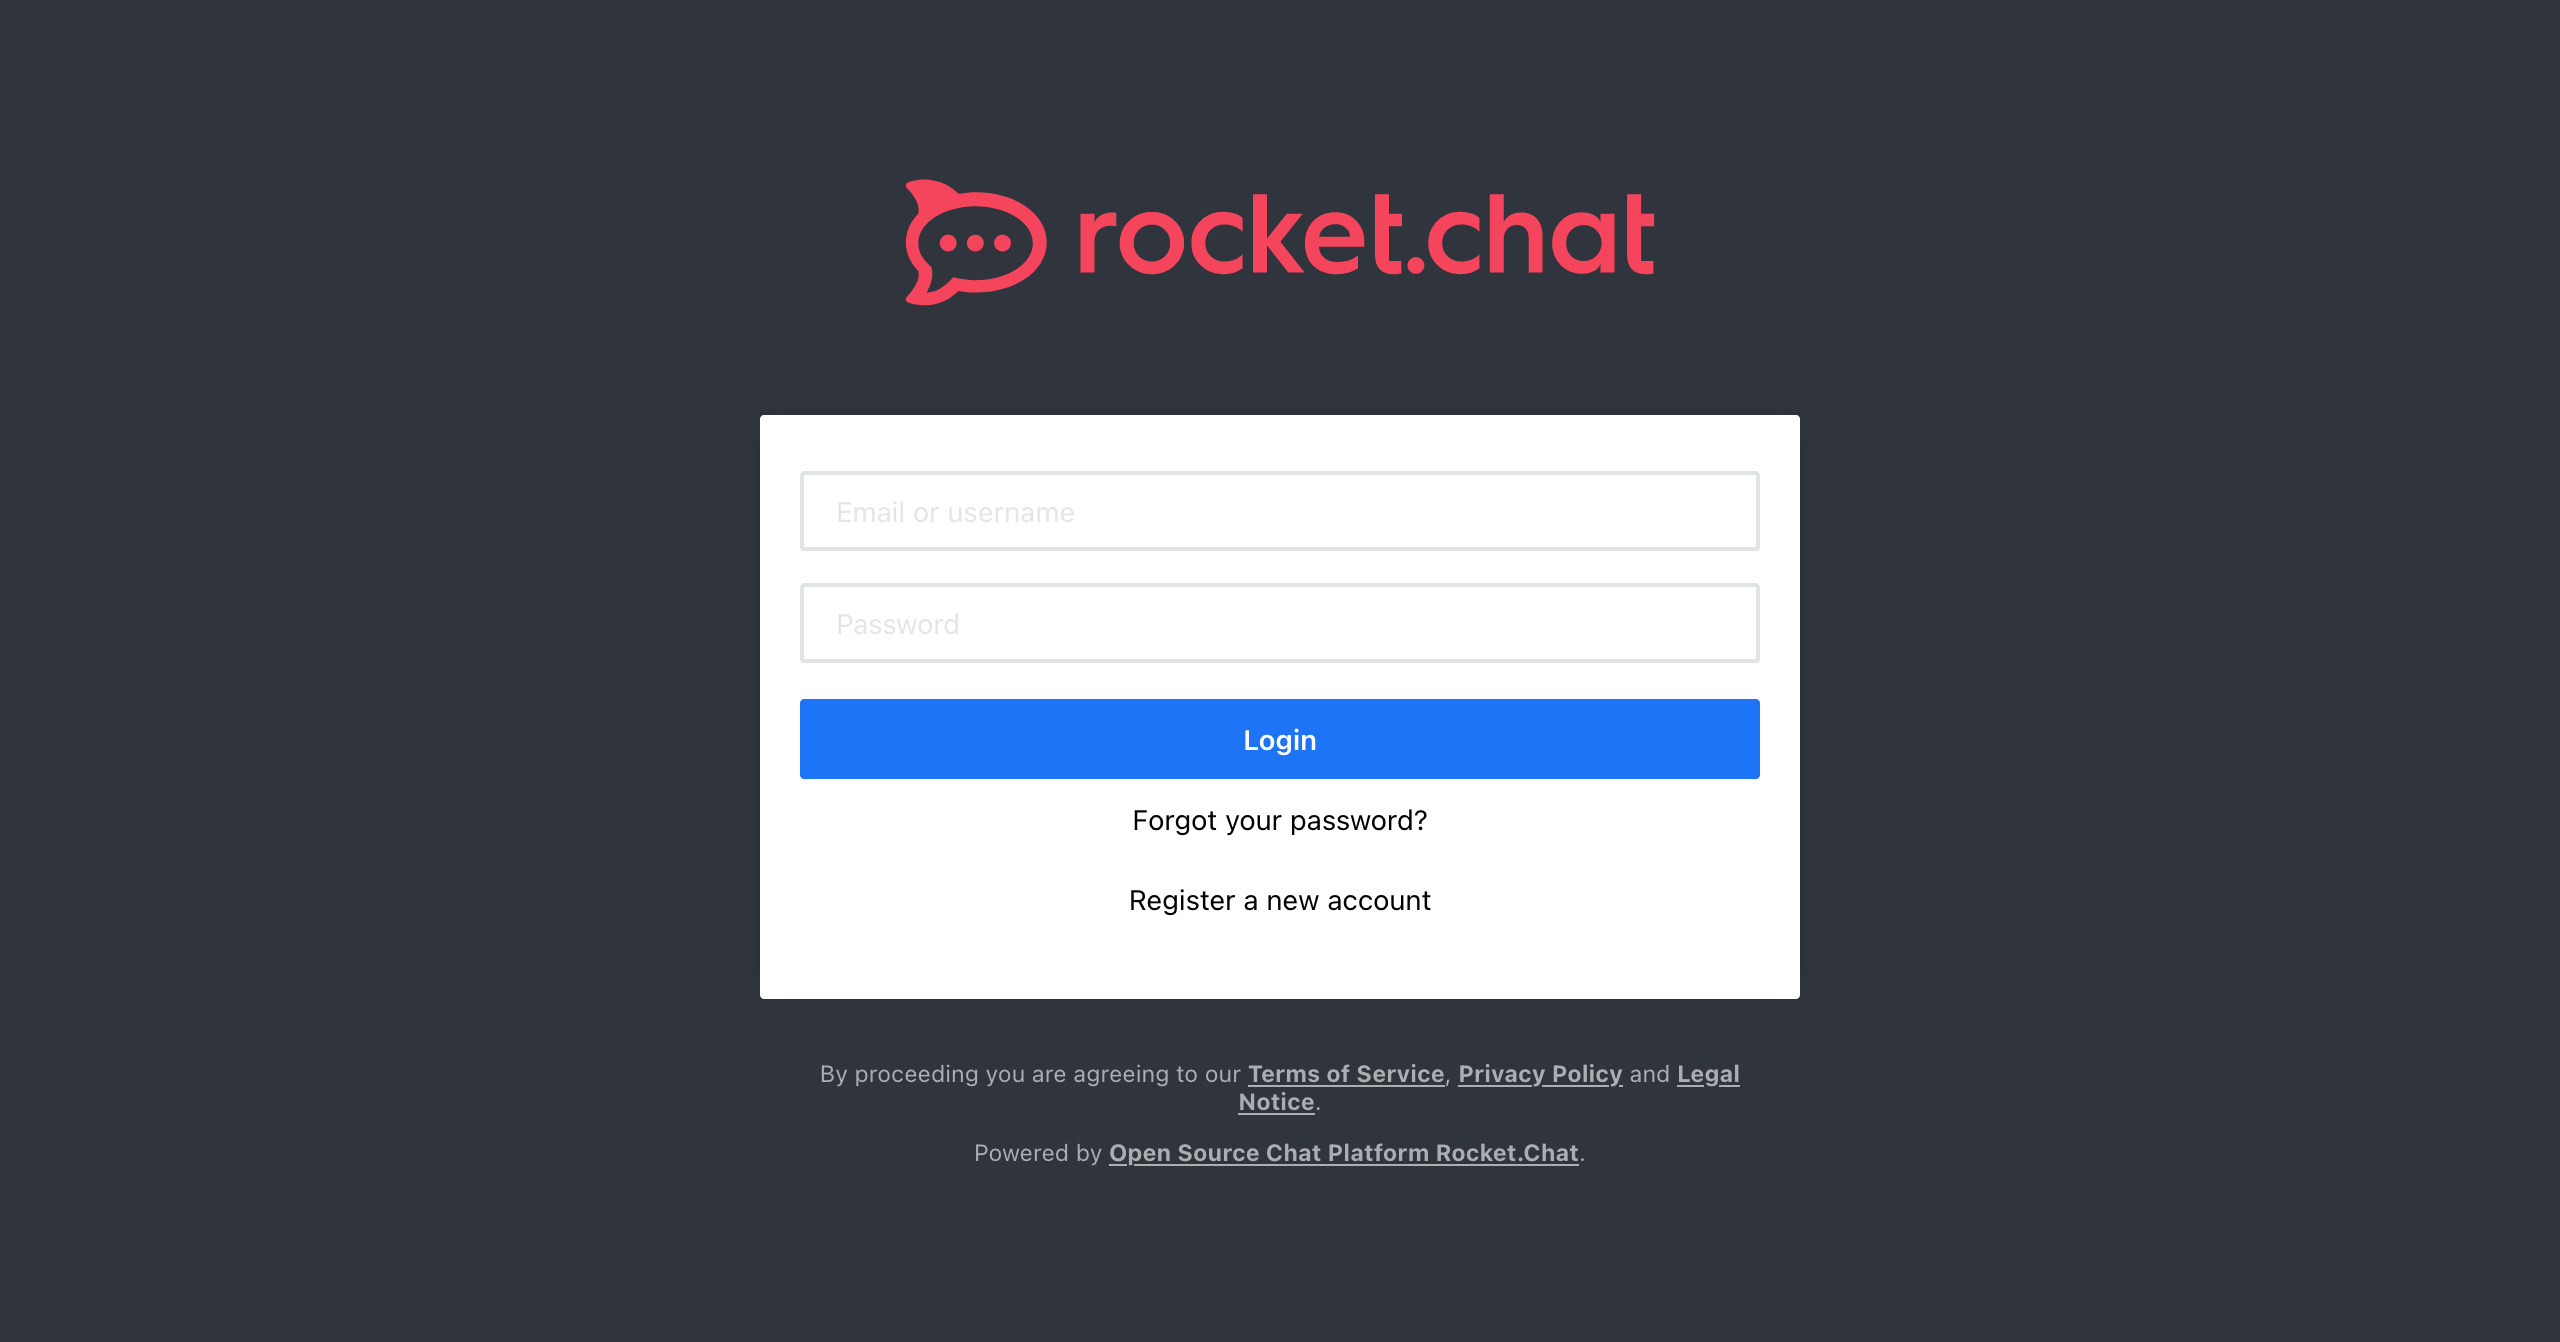
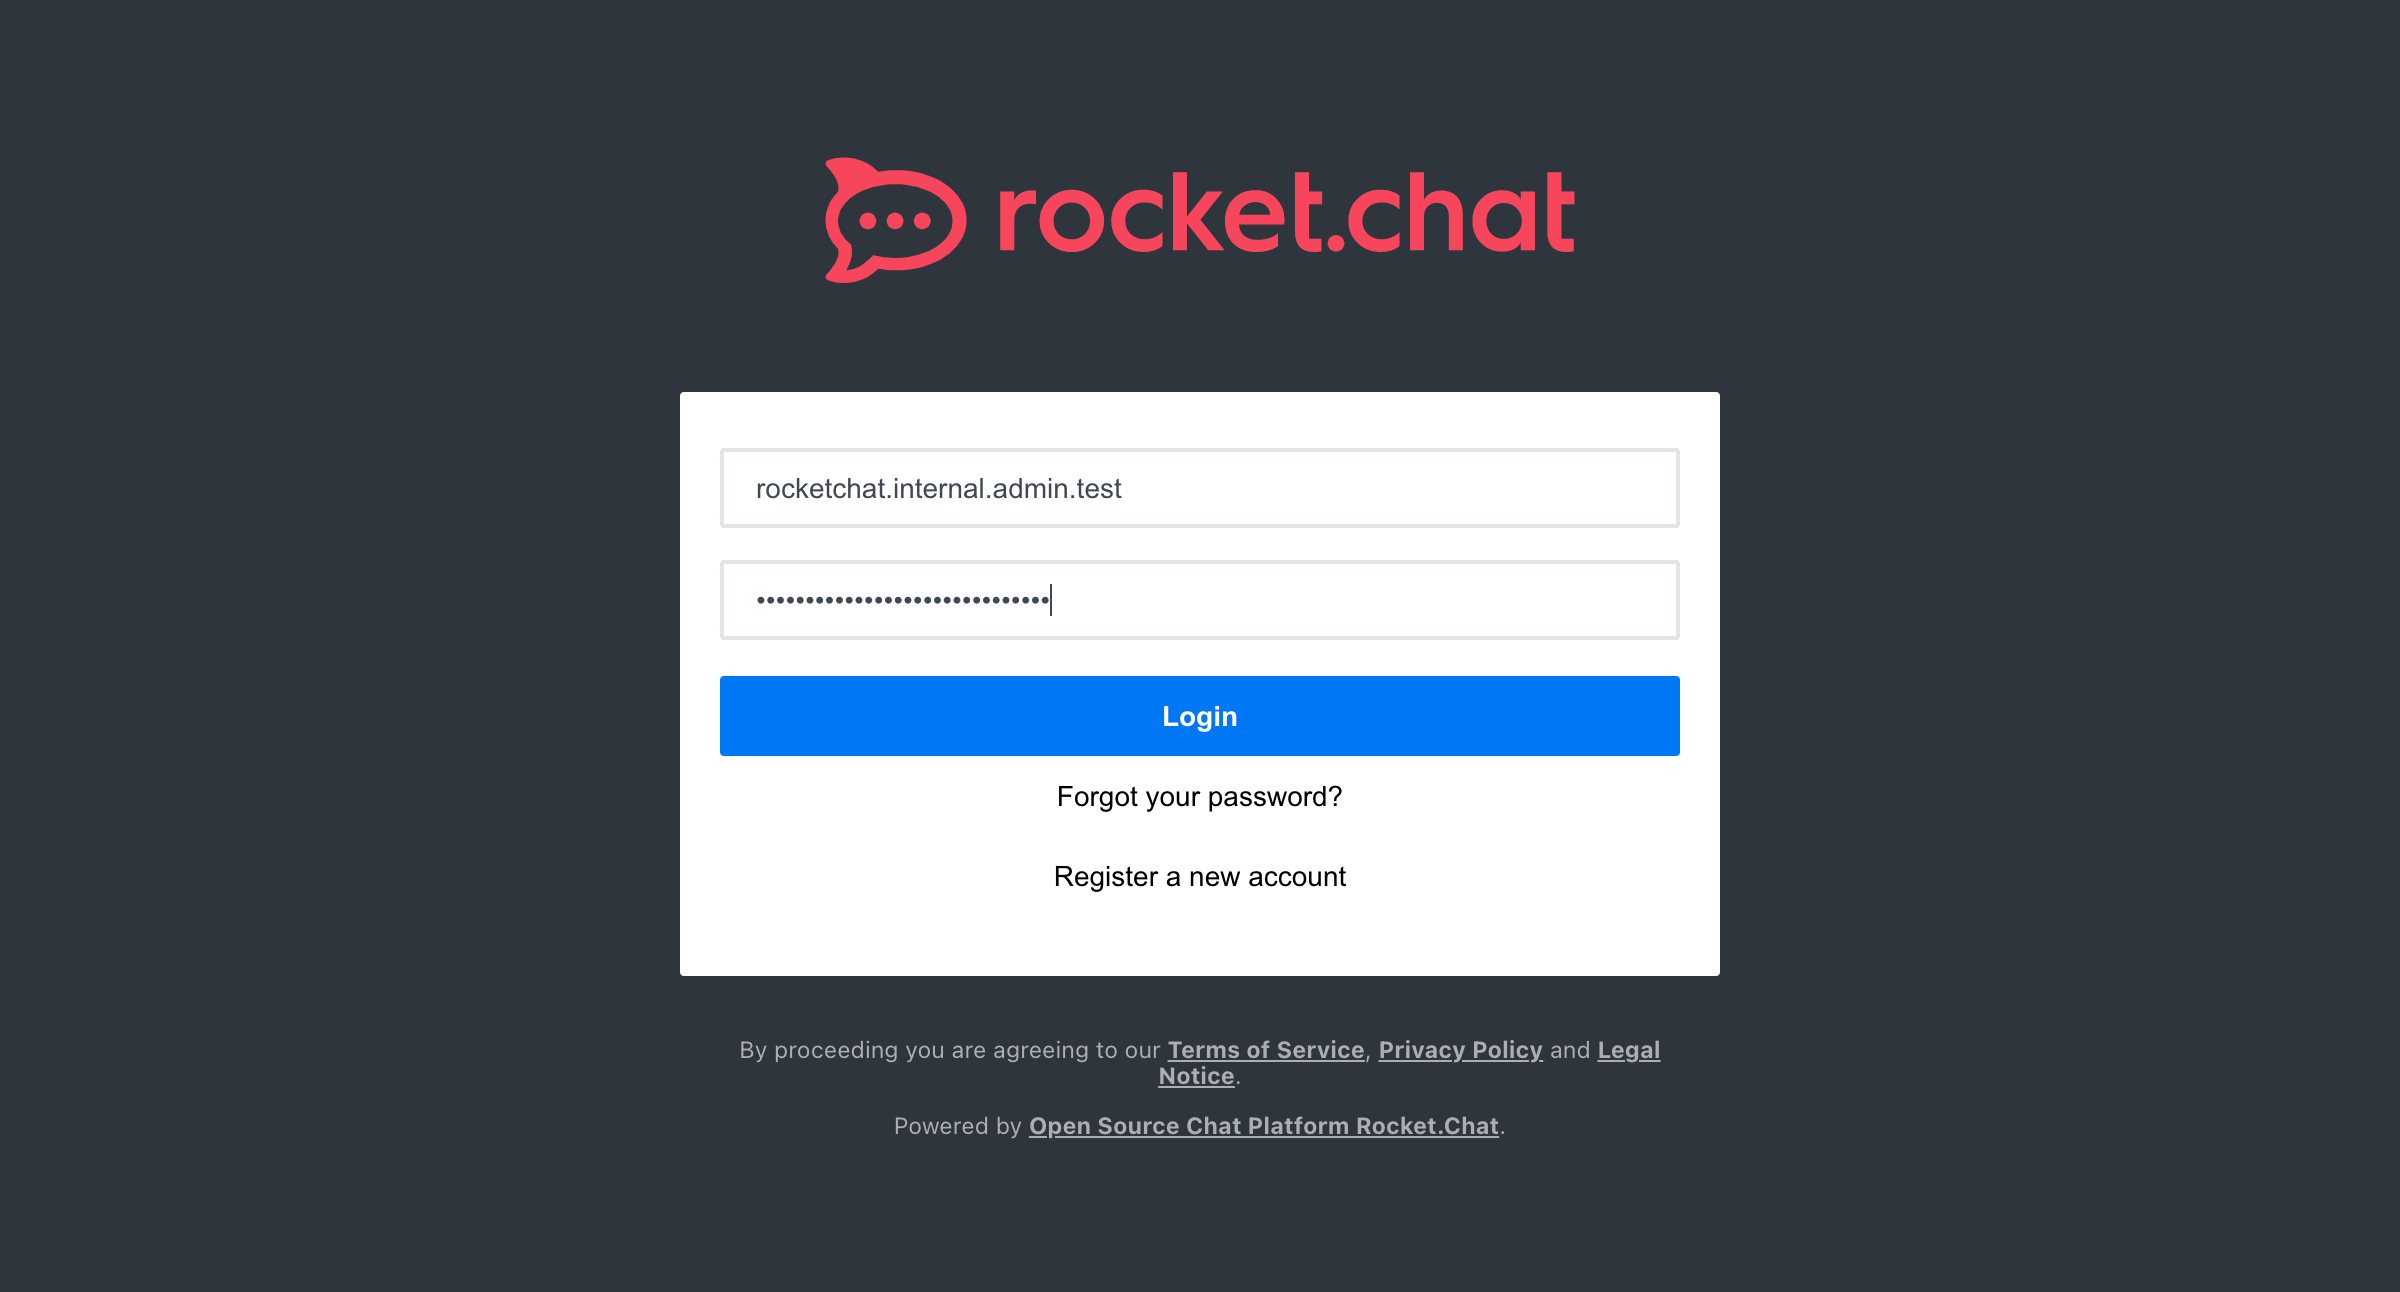
MoveToTeam

Changed region(s): [[0.2812, 0.2786, 0.7188, 0.8978], [0.3438, 0.1238, 0.6562, 0.2477], [0.4375, 0.6502, 0.5625, 0.6811]]

diff --git a/Pages/TeamsPage.py b/Pages/TeamsPage.py
@@ -57,6 +57,14 @@ class TeamsPage(BasePage):
     SAVE_BUTTON = (By.XPATH, '//*[@id="rocket-chat"]/div[2]/div/main/div/aside/div/div/div[1]/form/div[10]/span/div/div/button[2]')
     TEAM_EDIT = (By.XPATH, "//*[contains(text(),'" + data.new_name + "')]")
 
+    """Move to Team"""
+    CHANNEL_CREATED2 = (By.XPATH, "//*[contains(text(),'" + data.channel + "')]")
+    MOVE_TO_TEAM = (By.XPATH, '//li[@class="rcx-option"][@value="move"]')
+    CONTINUE_BUTTON = (By.XPATH, "//button[contains(text(), 'Continue')]")
+    YES_BUTTON = (By.XPATH, "//button[contains(text(), 'Yes')]")
+    SEARCH_CHANNEL = (By.XPATH, '//*[@id="modal-root"]/div/dialog/div/div[1]/div/div[5]/div/div[1]/input')
+    MOVED_CHANNEL = (By.XPATH, '//li[@class="rcx-option"]//div[contains(text(),"' + data.channel + '")]')
+
     def __init__(self, driver):
         super().__init__(driver)
 
@@ -162,6 +170,41 @@ class TeamsPage(BasePage):
 
     def is_change_visible(self):
         return self.is_visible(self.TEAM_EDIT)
+
+    def move_channel_to_team(self, channel, team_name):
+        self.do_click(self.ADD_BUTTON)
+        time.sleep(5)
+        self.do_click(self.CHANNEL_BUTTON)
+        self.do_click(self.CHANNEL_NAME_INPUT)
+        self.do_send_keys(self.CHANNEL_NAME_INPUT, channel)
+        time.sleep(3)
+        self.do_click(self.CREATE_BUTTON)
+        time.sleep(2)
+        self.do_click(self.CHANNEL_CREATED2)
+        time.sleep(5)
+        self.do_click(self.INFO_BUTTON)
+        self.do_click(self.MORE_BUTTON)
+        time.sleep(10)
+        self.save_screenshot("/Screenshots/MovetToTeam.png")
+        self.do_click(self.MOVE_TO_TEAM)
+        time.sleep(2)
+        self.do_click(self.SEARCH_CHANNEL)
+        self.do_send_keys(self.SEARCH_CHANNEL, team_name)
+        time.sleep(2)
+        self.do_enter(self.SEARCH_CHANNEL)
+        time.sleep(2)
+        self.do_click(self.CONTINUE_BUTTON)
+        time.sleep(2)
+        self.do_click(self.YES_BUTTON)
+        time.sleep(5)
+        self.save_screenshot("/Screenshots/ChannelMovedToTeam.png")
+        self.do_click(self.TEAM_CREATED)
+        time.sleep(5)
+        self.do_click(self.CHANNELS)
+
+    def is_channel_moved(self):
+        return self.is_visible(self.MOVED_CHANNEL)
+
 
 
 

diff --git a/Tests/test_09-Teams.py b/Tests/test_09-Teams.py
@@ -13,9 +13,9 @@ data = data_env.get_data()
 class Test_Team(BaseTest):
     @allure.severity(allure.severity_level.CRITICAL)
     def test_add_new_team(self):
-        # self.loginPage = LoginPage(self.driver)
-        # self.loginPage.do_login(data.user_name, data.password)
-        # self.driver.maximize_window()
+        self.loginPage = LoginPage(self.driver)
+        self.loginPage.do_login(data.user_name, data.password)
+        self.driver.maximize_window()
         self.team = TeamsPage(self.driver)
         self.team.add_team(data.team_name, data.team_topic)
         allure.attach(self.driver.get_screenshot_as_png(), name="CreateTeam", attachment_type=AttachmentType.PNG)
@@ -54,6 +54,14 @@ class Test_Team(BaseTest):
     def test_convert_channel_to_team(self):
         self.team = TeamsPage(self.driver)
         self.team.convert_channel_to_team(data.channel2team)
+        time.sleep(3)
+        self.team.go_to_Home()
+
+    @allure.severity(allure.severity_level.NORMAL)
+    def test_move_to_team(self):
+        self.team = TeamsPage(self.driver)
+        self.team.move_channel_to_team(data.channel, data.team_name)
+        assert self.team.is_channel_moved()
         time.sleep(3)
         self.team.go_to_Home()
 

diff --git a/Pages/BasePage.py b/Pages/BasePage.py
@@ -15,7 +15,7 @@ class BasePage:
         self.driver = driver
 
     def do_click(self, by_locator):
-        WebDriverWait(self.driver, 20).until(EC.visibility_of_element_located(by_locator)).click()
+        WebDriverWait(self.driver, 20 ).until(EC.visibility_of_element_located(by_locator)).click()
 
     def do_send_keys(self, by_locator, text):
         WebDriverWait(self.driver, 10).until(EC.visibility_of_element_located(by_locator)).send_keys(text)

diff --git a/Config/data_local.py b/Config/data_local.py
@@ -33,3 +33,4 @@ class LocalData:
     new_channel = "ANewChannel"
     channel2team = "channeltoteam"
     new_name = "edited"
+    channel = "channel2"
